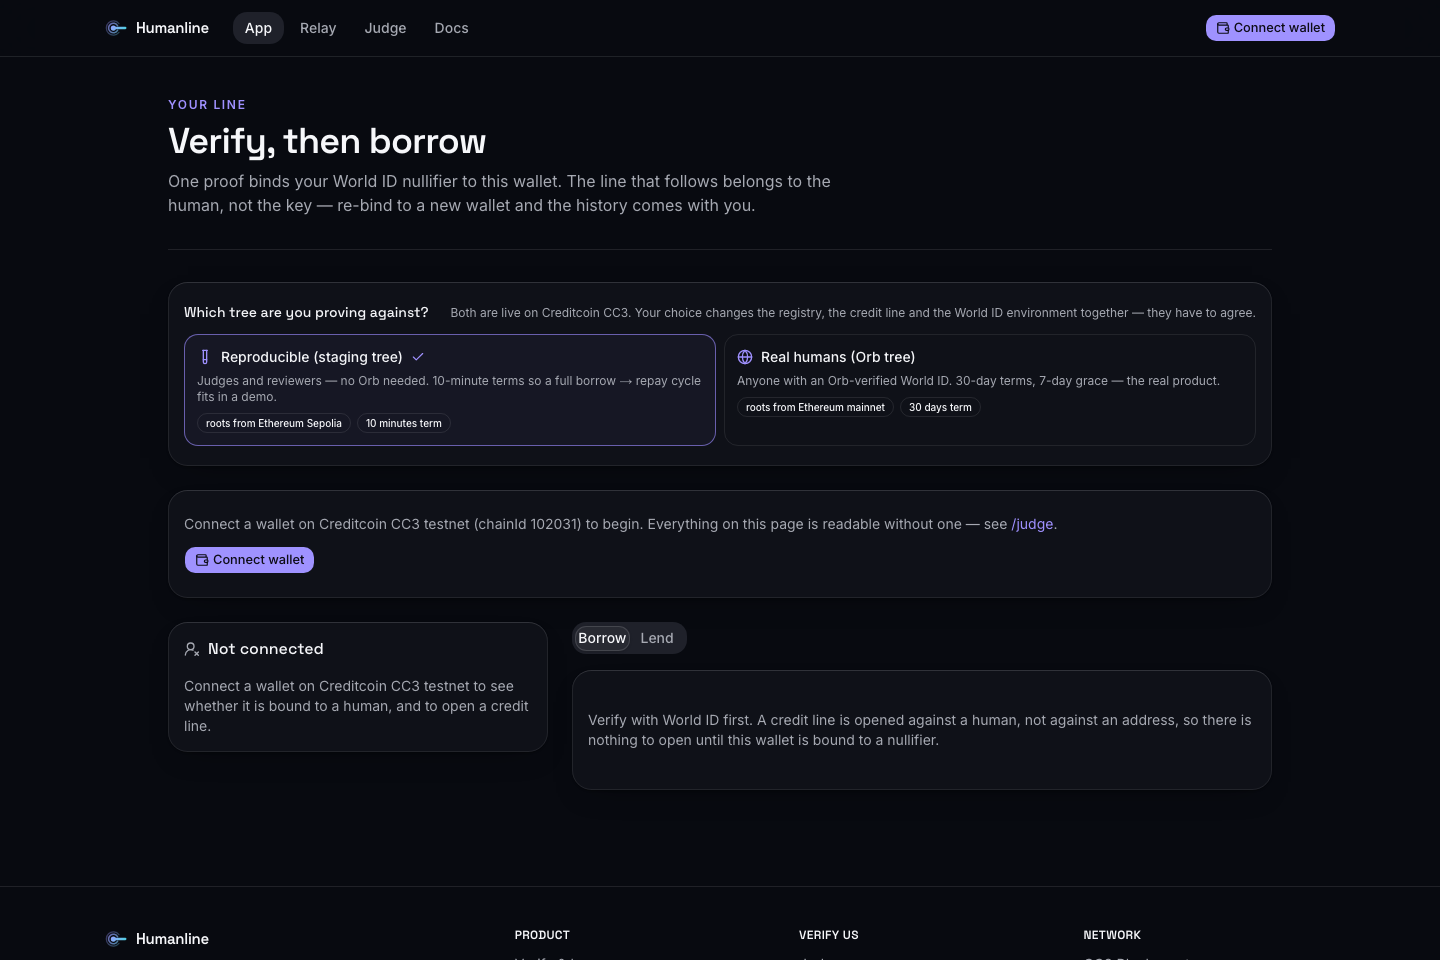
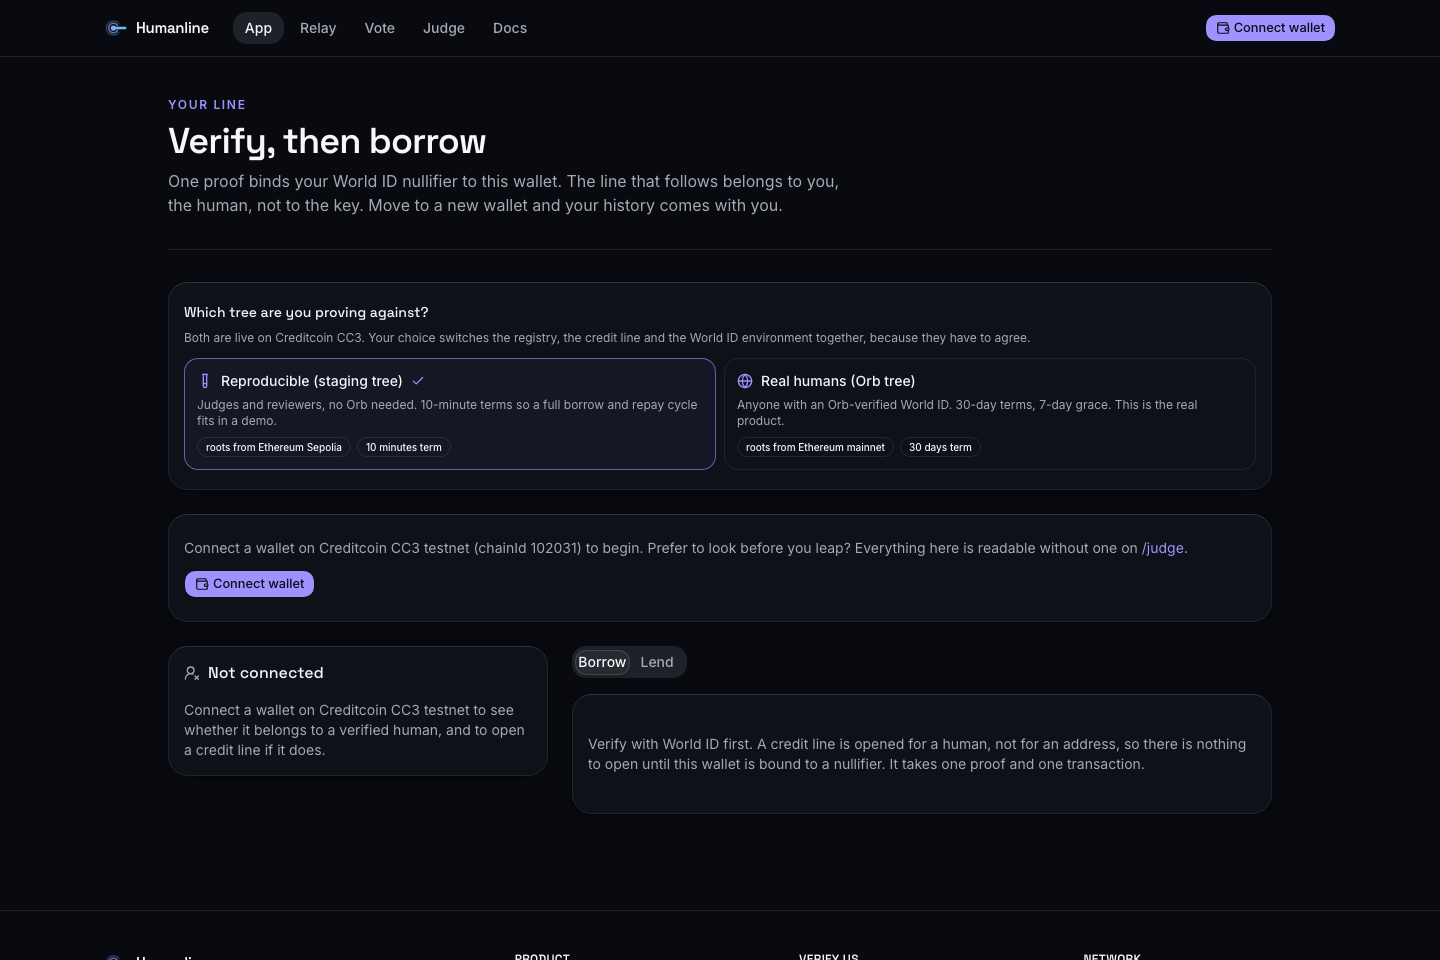
docs(buidl): long-form DoraHacks Details page, and fresh screenshots of the live site

diff --git a/docs/BUIDL_DETAILS.md b/docs/BUIDL_DETAILS.md
@@ -1,0 +1,267 @@
+![Humanline: one human, one credit line](https://raw.githubusercontent.com/rajkaria/humanline/main/docs/screenshots/hero.png)
+
+# Humanline
+
+### One human, one credit line.
+
+**Humanline gives a verified human an uncollateralized credit line on Creditcoin that follows the person, not the wallet.** World ID proof of personhood travels from Ethereum to Creditcoin through the Attestcoin Protocol, with no bridge and no oracle in between. Its zero-knowledge proof is checked on Creditcoin itself.
+
+**[Live app](https://humanline.credit/app)** · **[Judge page, no wallet needed](https://humanline.credit/judge)** · **[Live relay feed](https://humanline.credit/relay)** · **[One person, one vote](https://humanline.credit/vote)** · **[Public API](https://humanline.credit/api)** · **[GitHub](https://github.com/rajkaria/humanline)** · **[Attestcoin write-up](https://github.com/rajkaria/humanline/blob/main/docs/ATTESTCOIN_INTEGRATION.md)** · **[Deck](https://github.com/rajkaria/humanline/blob/main/docs/deck.pdf)** · **[npm: @humanline/sdk](https://www.npmjs.com/package/@humanline/sdk)**
+
+---
+
+## The 30-second version
+
+- **Every uncollateralized credit design on Creditcoin scores a wallet, and wallets cost nothing.** Open ten, repay yourself ten times, then default on the eleventh at full size. Humanline scores the person instead.
+- **The person is a World ID nullifier**, derived from an Orb iris scan. It stays the same on every wallet the person will ever hold. Limits, repayments and defaults are all keyed to it, so a new keypair doesn't make a new borrower.
+- **World ID's identity tree lives on Ethereum, where Creditcoin can't see it.** Humanline copies it over with Attestcoin. Each root arrives as a proof of the real Ethereum transaction that produced it, and the `0x0FD2` precompile verifies that proof in the same transaction that adopts the root.
+- **The Semaphore Groth16 proof is verified on Creditcoin itself**, using the bn128 precompiles. Real World ID proofs have been verified on CC3.
+- **Attestcoin is load-bearing in 22 ways.** One no one else has tried: the credit pool can never lend more than the attestors' bonded stake, read live from `0x0FD4` on every draw.
+- **Nothing asks for trust.** The contracts have no owner, no pause and no upgrade path. Anyone can relay a root. Every time the judge page loads, 12 named attacks are fired at the deployed contracts and all 12 are refused.
+
+---
+
+## The problem: a wallet is not a person
+
+Creditcoin exists to give credit history to people the banking system can't see. The ledger is there, Credal lets lenders write loans to it, and Aella runs BNPL on top of it. What's still missing is the oldest question in unsecured lending: *is this the same person who borrowed last time, and is there exactly one of them?*
+
+When we surveyed the BUIDL CTC gallery, about thirty submissions were credit passports built the same way: read repayments, mint a score. Every one of them can be forged by **generating a new wallet**. No hack is needed.
+
+Proof of personhood already exists, and it's already in Creditcoin's markets. World ID's Orb-verified users are concentrated in Kenya, Argentina, Indonesia, the Philippines, Brazil and Malaysia. Adoption was never the obstacle. Plumbing was: World ID's tree lives on Ethereum, and the only ways to reach another chain were a trusted bridge or a trusted oracle. **Attestcoin removes both.** That's why Humanline is built on Creditcoin and not somewhere else.
+
+## The insight: the nullifier is the human
+
+| | Wallet-scored credit passports | Humanline |
+|---|---|---|
+| What gets scored | an address | a human |
+| Cost to reset your score | one new keypair, free | a second iris |
+| Moving to a new wallet | new borrower, clean slate | same borrower, same limit, same history |
+| A default | erased by the next wallet | frozen on the person, on every wallet, for good |
+| A second line from a second wallet | granted | refused with `LineExists` |
+| Who vouches for the identity data | a bridge operator or oracle | an Attestcoin proof verified on-chain |
+| Admin keys | usually | none, anywhere |
+
+The single most important test in the repo is `test_DefaultSurvivesAWalletRebind`.
+
+---
+
+## How it works
+
+```
+ETHEREUM MAINNET (chainKey 3)             CREDITCOIN CC3 TESTNET (chainId 102031)
+┌──────────────────────────────┐          ┌──────────────────────────────────────────────┐
+│ WorldIDIdentityManager (Orb) │          │ 0x0FD2 BlockProver   0x0FD3 ChainInfo         │
+│ registerIdentities() ~hourly │  proofs  │ 0x0FD4 AttestorStash 0x06/07/08 bn128         │
+│ emits TreeChanged(pre,post)  │ ───────▶ ├──────────────────────────────────────────────┤
+└──────────────────────────────┘  anyone  │ AttestedWorldID                               │
+ETHEREUM SEPOLIA (chainKey 1)             │  · verifyAndEmit, decode calldata + log       │
+┌──────────────────────────────┐          │  · preRoot must chain to a known root         │
+│ World ID staging tree        │ ───────▶ │  · finality (0x0FD3) + quorum (0x0FD4) guards │
+└──────────────────────────────┘          │  · IWorldID.verifyProof (Semaphore, bn128)    │
+                                          ├──────────────────────────────────────────────┤
+   World App / IDKit / Simulator ──ZK──▶  │ HumanRegistry   nullifier ⇄ wallet            │
+                                          │ CreditLine      one line per nullifier,       │
+   Linked Ethereum wallets ──proofs──▶    │                 capped by attestor bonds      │
+   (self-send, Aave V3, USDC)             │ HumanLinks · CreditHistory · EthRepay         │
+                                          │ RelayReward · HumanGated → HumanPoll          │
+                                          └──────────────────────────────────────────────┘
+```
+
+1. **World updates its identity tree on Ethereum** about once an hour.
+2. **Anyone relays the new root to Creditcoin.** `AttestedWorldID` is World's own `WorldIDBridge`, vendored unmodified, with its trusted state bridge replaced by Attestcoin proofs. Each root is checked by `0x0FD2`, then by Humanline's own guards.
+3. **The user proves personhood** with World App, IDKit or the World ID Simulator. `HumanRegistry` verifies the Groth16 proof natively and binds the nullifier to the caller's wallet. The wallet is the proof's signal, so a proof can't be lifted from the mempool.
+4. **`CreditLine` opens one line per human.** It starts at 25 hUSD, grows ×1.25 per on-time term, is halved when late, and caps at 2,000. A default freezes the line on the nullifier, on every wallet.
+5. **The credit identity reaches back into Ethereum.** `HumanLinks` ties a person's Ethereum wallets to them. `CreditHistory` imports proven Aave V3 borrow and repay history to raise the limit. `EthRepay` settles a Creditcoin line from a proven USDC transfer on Ethereum.
+
+![App](https://raw.githubusercontent.com/rajkaria/humanline/main/docs/screenshots/app.png)
+
+---
+
+## Why this is a deep Attestcoin integration
+
+Take Attestcoin out of Humanline and there's no root, so no verified human, so no credit. There's no fallback, no admin setter and no degraded mode.
+
+Attestcoin proves **inclusion** and **continuity** and nothing else. Everything else is Humanline's job, and each check has a named revert:
+
+| Attestcoin does not prove | Humanline checks | Reverts with |
+|---|---|---|
+| The source transaction succeeded | receipt status must be 1 | `SourceTxReverted` |
+| It called World's identity manager | decoded `to` must be the manager | `NotIdentityManager` |
+| `TreeChanged` came from that manager | filter logs by emitter, exactly one left (decoys skipped) | `NoTreeChange`, `AmbiguousTreeChange` |
+| Calldata agrees with the log | selector and both roots cross-checked | `CalldataLogMismatch` |
+| The root is next in sequence | `preRoot` must be a root we already hold | `UnknownPreRoot` |
+| The block is final | `0x0FD3` tip at least 32 attested blocks deeper | `NotFinal` |
+| A real attestor set backed it | `0x0FD4` bonded attestors ≥ 3 | `ThinQuorum` |
+| It wasn't relayed before | `calculateTxIndex` query id, recorded once across both entry points | `QueryAlreadyProcessed` |
+
+**What nobody else does with Attestcoin:**
+
+- **`0x0FD4` becomes a lending parameter.** The deepest assumption under every loan is the attestor quorum. So total outstanding principal can never exceed `attestors × minimum bond × 10 hUSD per CTC`, read live on every draw. If the set thins, the ceiling drops. Repayments are never blocked.
+- **Another protocol's state root, not a token transfer.** The receipt log gives the roots, the calldata cross-checks them and counts the humans, and `calculateTxIndex` gives ordering and replay protection.
+- **Batching.** `executeBatch` exposes the batch overload of `verifyAndEmit`: up to 10 updates under one continuity proof, with the protocol's 10-transaction limit enforced on-chain.
+- **Four kinds of proven payload through one precompile:** World ID tree updates, wallet-link self-sends, Aave V3 events and USDC transfers.
+- **Two source chains, one code path.** Ethereum mainnet carries the Orb roots, Sepolia carries World's staging tree.
+- **Prover independence.** Proofs built locally with `usc-sdk` match the hosted prover byte for byte. The browser recomputes every Merkle path and checks it against `0x0FD3` before a wallet signs.
+
+The full table of 22 load-bearing surfaces, each with `file:line`, what it decides and the test that proves it, is in [ATTESTCOIN_INTEGRATION.md](https://github.com/rajkaria/humanline/blob/main/docs/ATTESTCOIN_INTEGRATION.md).
+
+---
+
+## A relay nobody has to trust or wait for
+
+A relayer is a liveness dependency even when it isn't a trust dependency, so Humanline removes it three ways:
+
+- **Self-relay from the app.** If your proof's root hasn't reached Creditcoin yet, the app plans the missing updates, builds the proof, dry-runs it and lets your own wallet send it. A wallet created seconds earlier, holding only faucet tCTC, has done this live.
+- **`RelayReward` pays strangers to relay.** It's a permissionless vault that pays 0.002 tCTC per fresh root a call actually recorded. It has no owner and no withdrawal function, and farming it is impossible by construction.
+- **An always-on relay, measured from chain data.** A Vercel Cron job runs every 5 minutes, with GitHub Actions as backup and a `200`/`503` watchdog at `/api/relay/health`.
+
+![Relay](https://raw.githubusercontent.com/rajkaria/humanline/main/docs/screenshots/relay.png)
+
+Live at the time of writing: **77 World ID roots relayed** (30 from Ethereum mainnet, 47 from Sepolia) carrying **2,700 identity commitments**. Since the 5-minute relay went live, a fresh root has been usable on Creditcoin a **median 15.6 minutes** after its Ethereum block, most of that being Ethereum finality plus the 32-block attestation depth. Over the same period, uptime is **100%**.
+
+---
+
+## Proof, not promises
+
+### Twelve live attacks, refused by name
+
+[humanline.credit/judge](https://humanline.credit/judge) fires these as read-only calls at the deployed contracts every time the page loads, using real Sepolia transactions and real Attestcoin proofs. Vercel Cron repeats them every six hours and alerts if one gets through.
+
+| Attack | Refused with |
+|---|---|
+| Forged Merkle proof | `Merkle proof validation failed` (`0x0FD2`) |
+| Wrong contract called (a real USDC transfer) | `NotIdentityManager` |
+| Reverted source transaction | `SourceTxReverted` |
+| Replay an adopted root | `QueryAlreadyProcessed` |
+| Roots out of order | `BatchOutOfOrder` |
+| Unattested block height | `Continuity proof does not match` (`0x0FD2`) |
+| Below the attestor floor | `ThinQuorum` |
+| Sepolia root into the Ethereum relay | `WrongSourceChain(1, 3)` |
+| Decoy `TreeChanged` appended to a real receipt | `Merkle proof validation failed` (`0x0FD2`) |
+| Oversize batch of 11 | `BatchTooLarge(11)` |
+| Root from before the relay's history | `UnknownPreRoot` |
+| One human, a second registration | `SameWallet` |
+
+![Judge page](https://raw.githubusercontent.com/rajkaria/humanline/main/docs/screenshots/judge.png)
+
+### Rigor
+
+| | |
+|---|---|
+| Tests | **877** in total: 234 Foundry (unit, fuzz, 12 invariants, 14 live fork tests against the real precompiles), 216 worker, 417 web, 10 SDK |
+| Line coverage | **93.6%** |
+| Mutation score | **95.8%** (183 of 191 killed; the 8 survivors are shown to be equivalent, one by one) |
+| Static analysis | Slither (every High and Medium triaged), CodeQL and gitleaks on every push |
+| Contracts | **18** deployed on CC3 testnet, all verified on Blockscout |
+| Submission check | runs daily in CI; every cited address, transaction and URL must resolve |
+
+### Measured from chain data, not typed by hand
+
+- **Gas per relay**, fitted live: ≈ 169,639 + 99,959 · updates + 470.6 · continuity roots (R² 0.994).
+- **The batch cap** was probed live: 11 updates fail with `BatchTooLarge`, 10 pass. The cap is exactly 10.
+- **`0x0FD2` verify gas** ≈ 11,135 + 48 · continuity roots (R² 1.000).
+
+All in [MEASUREMENTS.md](https://github.com/rajkaria/humanline/blob/main/docs/MEASUREMENTS.md).
+
+---
+
+## Build on it
+
+We think the most valuable thing Humanline can be for Creditcoin is not a lending app. It's the `isHuman` call every other lending app makes. So personhood ships as a primitive.
+
+```bash
+npm install @humanline/sdk viem
+```
+
+```ts
+import { createHumanlineClient, isHuman, profileOf } from "@humanline/sdk";
+
+const client = createHumanlineClient();       // CC3 testnet, no wallet needed
+await isHuman(client, "0x…");                 // is this wallet a verified human?
+const profile = await profileOf(client, "0x…"); // nullifier, limit, principal, due date, repaid and late counts
+```
+
+```solidity
+import {HumanGated} from "@humanline/sdk/contracts/HumanGated.sol";
+
+contract Airdrop is HumanGated {
+    constructor(address registry) HumanGated(registry) {}
+    function claim() external oncePerHuman("airdrop-1") {} // one claim per human, any wallet
+}
+```
+
+There's also a **CORS-open public API** (OpenAPI 3.1) at [humanline.credit/api](https://humanline.credit/api), including a loan-lifecycle feed shaped like Credal's. **`HumanPoll`** is the first app built only on the SDK: one person, one vote, and a new wallet doesn't buy a second ballot.
+
+![One person, one vote](https://raw.githubusercontent.com/rajkaria/humanline/main/docs/screenshots/vote.png)
+
+---
+
+## Try it yourself in two minutes
+
+**No wallet:**
+1. Open [humanline.credit/judge](https://humanline.credit/judge) and watch all 12 attacks get refused live.
+2. Open [humanline.credit/relay](https://humanline.credit/relay) and click any root through to Etherscan and Blockscout.
+3. From a terminal:
+   ```bash
+   git clone --recurse-submodules https://github.com/rajkaria/humanline && cd humanline && bun install
+   bun run worker/src/cli.ts check    # all three Attestcoin precompiles, live
+   bun run worker/src/cli.ts attack   # 12 named attacks against the deployed contracts
+   ```
+
+**With a wallet:** open [humanline.credit/app](https://humanline.credit/app) and verify with the [World ID Simulator](https://simulator.worldcoin.org), no Orb needed. Then borrow, repay and watch your limit grow. First-time wallets get CC3 gas automatically. If you hold an Orb-verified World ID, use [the real deployment](https://humanline.credit/app?profile=production) with 30-day terms.
+
+---
+
+## Two deployments, same relayed roots
+
+| Deployment | Verifies proofs against | Who can register | Terms |
+|---|---|---|---|
+| [Reproducible](https://humanline.credit/app) | World's Sepolia staging tree | anyone, via the World ID Simulator | 10-minute term, 5-minute grace |
+| [Real](https://humanline.credit/app?profile=production) | World's Ethereum mainnet Orb tree | anyone with an Orb-verified World ID | 30-day term, 7-day grace |
+
+**Key addresses** (Creditcoin CC3 testnet, chainId 102031, all verified on [Blockscout](https://creditcoin-testnet.blockscout.com)):
+
+| Contract | Address |
+|---|---|
+| `AttestedWorldID` (Ethereum mainnet roots) | [`0x1122ef3fa4ab0693809e42a00b2476efcf4468ad`](https://creditcoin-testnet.blockscout.com/address/0x1122ef3fa4ab0693809e42a00b2476efcf4468ad) |
+| `AttestedWorldID` (Sepolia roots) | [`0x3a7c3cc67034197208923587b8dc5c4674cbcef7`](https://creditcoin-testnet.blockscout.com/address/0x3a7c3cc67034197208923587b8dc5c4674cbcef7) |
+| `HumanRegistry` | [`0x62c2fd99ea587e4b466175ad248468782bd5298d`](https://creditcoin-testnet.blockscout.com/address/0x62c2fd99ea587e4b466175ad248468782bd5298d) |
+| `CreditLine` v3 | [`0xbb97982f1138f36bfa3ba4706dad5134a10556d9`](https://creditcoin-testnet.blockscout.com/address/0xbb97982f1138f36bfa3ba4706dad5134a10556d9) |
+| `RelayReward` | [`0x9766480a872ad7df2a5cf86f9e307804a3f7afe0`](https://creditcoin-testnet.blockscout.com/address/0x9766480a872ad7df2a5cf86f9e307804a3f7afe0) |
+| `HumanLinks` | [`0xbbf6f64c3aff6715c42711329e3292b3c967781c`](https://creditcoin-testnet.blockscout.com/address/0xbbf6f64c3aff6715c42711329e3292b3c967781c) |
+| `CreditHistory` | [`0xa4833b1b667a729e80248004ac91cfa3a2ff3404`](https://creditcoin-testnet.blockscout.com/address/0xa4833b1b667a729e80248004ac91cfa3a2ff3404) |
+| `EthRepay` | [`0x231ce1ceb88edefad482fc6dfd49a8454cd1fc48`](https://creditcoin-testnet.blockscout.com/address/0x231ce1ceb88edefad482fc6dfd49a8454cd1fc48) |
+| `HumanPoll` | [`0xd7854346fea444f6ac966d2ce764a4f029e013bc`](https://creditcoin-testnet.blockscout.com/address/0xd7854346fea444f6ac966d2ce764a4f029e013bc) |
+
+All 18 addresses, including the Orb-tree set, are in the [README](https://github.com/rajkaria/humanline#live-addresses).
+
+---
+
+## Where this goes
+
+The endpoint is **the personhood layer for Creditcoin**: a public `IHumanRegistry` that any lender, DAO, airdrop or payroll contract reads for free, paid for by the credit business on top of it.
+
+| Horizon | Milestone |
+|---|---|
+| Month 1 | The same ownerless contracts on Creditcoin mainnet. A first Credal lender using `isHuman` as a sybil check on an existing loan book. Two independent relayers run by different parties. |
+| Month 3 | Lines funded by PenguinSwap LPs. BSC as a source chain for remittance corridors. Periscope, which proves World Chain output roots through their Ethereum postings, so World ID 4.0 works too. |
+| Month 6 | A supervised pilot in Kenya and Argentina with a Creditcoin lending partner: small tickets, real money, and the first published loss curve for personhood-gated uncollateralized credit. |
+
+Every lender that plugs in makes it stronger for the next one. A default recorded by the first lender is visible to the second, because it's attached to the human. Ten lenders sharing one personhood layer adds up to a shared credit bureau that no single party runs.
+
+---
+
+## What is testnet-only, and what we don't claim
+
+- **The World ID roots are real.** They come from World's own sequencer on Ethereum. There's no mock verifier, canned proof or replayed fixture anywhere in the deployed path.
+- **hUSD is a test stablecoin we mint**, and lender deposits are testnet funds. The reproducible deployment shortens terms to minutes so a full cycle fits in a demo.
+- **Attestcoin can't prove a negative.** A default is declared from a passed deadline plus no repayment in Creditcoin's own state, never from a cross-chain absence claim.
+- **Roots lag** by Ethereum finality plus a 32-block attestation depth. The lag is shown on `/relay`, and self-relay means nobody waits longer than the protocol requires.
+- **Sybil resistance is exactly World ID's:** one World ID, one line.
+- **A freeze is permanent** and there's nobody to appeal to. A production version would add a lender-controlled cure path.
+
+---
+
+**Built by Raj Karia** ([X @rajkaria_](https://x.com/rajkaria_) · [GitHub @rajkaria](https://github.com/rajkaria)). BUIDL CTC 2026 Fall · Creditcoin CC3 testnet · MIT licensed.
+
+**One human, one credit line. Zero trusted parties. Come and check.**

diff --git a/docs/SUBMISSION.md b/docs/SUBMISSION.md
@@ -87,6 +87,10 @@ For the long-form description field, if the form offers one. It names no other p
 
 Word count check: run `wc -w` on the block before pasting. The form's limit is 400.
 
+### Details (the long-form BUIDL page)
+
+Paste the whole of `docs/BUIDL_DETAILS.md` into the Details editor. It is Markdown, its images load from this repo on `main`, and its numbers were read off the live site on 2026-09-14. Put the demo video at the very top with the editor's video button once it is uploaded.
+
 ### GitHub Repository URL
 
 ```
